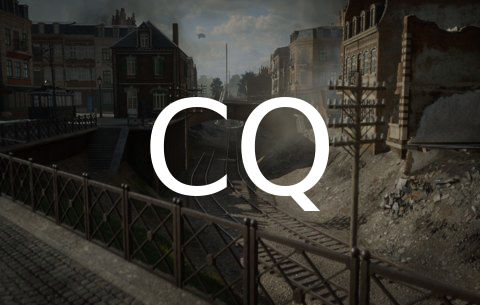
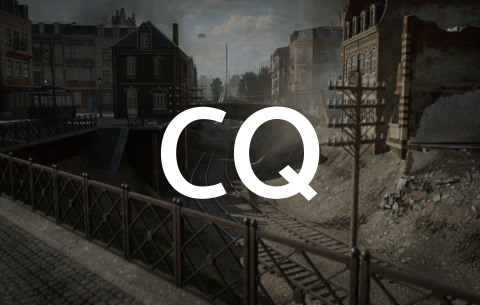
change to better font for CQ

Changed region(s): [[0.3125, 0.2951, 0.6875, 0.7082]]

diff --git a/s1.py b/s1.py
@@ -38,7 +38,8 @@ GAME = "bf1" # game to use for the bot: bf4/bf1 (bfv doesnt have favorites amoun
 # choose image from the sample files, they will auto-update in code.
 AVATARIMAGE = "avatar_image" #.png - image to show as avatar
 MESSAGEIMAGE = "info_image" #.png - image you want to show in message
-FONT = "DejaVuSans.ttf" # fontfile used in the image
+SMALLFONT = "DejaVuSans.ttf" # fontfile used in the image
+BIGFONT = "Catamaran-SemiBold.ttf"
 
 """BF1 version"""
 # dont change
@@ -168,14 +169,14 @@ async def get_playercount(session):
         tint = Image.new("RGBA", (480, 305), (0, 0, 0, 80))
         img = Image.alpha_composite(img, tint)
 
-        font = ImageFont.truetype("DejaVuSans.ttf", size=130, index=0)
-        smallFont = ImageFont.truetype("DejaVuSans.ttf", size=35, index=0)
-        favoritesFont = ImageFont.truetype("DejaVuSans.ttf", size=60, index=0)
+        font = ImageFont.truetype(BIGFONT, size=130, index=0)
+        smallFont = ImageFont.truetype(SMALLFONT, size=35, index=0)
+        favoritesFont = ImageFont.truetype(SMALLFONT, size=60, index=0)
 
         # draw smallmode
         draw = ImageDraw.Draw(img)
         w, h = draw.textsize(smallmode, font=font)
-        draw.text(((480 - w) / 2, (305 - h - 20) / 2), smallmode, font=font)
+        draw.text(((480 - w) / 2, (305 - h - 50) / 2), smallmode, font=font)
         img.save('map_mode.png')
 
         # get favorites
@@ -219,6 +220,7 @@ async def get_playercount(session):
 if __name__ == "__main__":
     assert sys.version_info >= (3, 6), "Script requires Python 3.6+"
     assert BOT_TOKEN and NAME, "Config is empty, pls fix"
-    assert os.path.exists(FONT), "fontfile not found"
+    assert os.path.exists(BIGFONT), "fontfile not found"
+    assert os.path.exists(SMALLFONT), "fontfile not found"
     print("Initiating bot")
     LivePlayercountBot().run(BOT_TOKEN)
